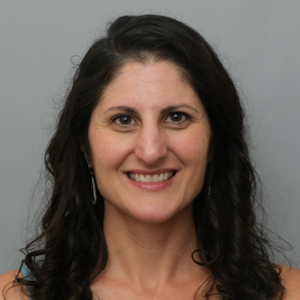
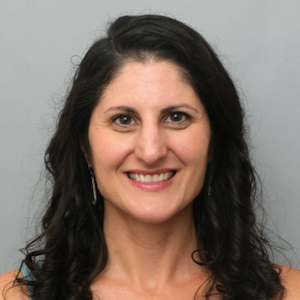
2021 images adjusted

diff --git a/time/index.html b/time/index.html
@@ -171,11 +171,11 @@
         </tr>
         <tr>
           <th scope="row"><p>2021</p></th>
-          <td><img class="img-fluid" src="images/21d.jpg"></td>
-          <td><img class="img-fluid" src="images/21m.jpg"></td>
-          <td><img class="img-fluid" src="images/21j.jpg"></td>
-          <td><img class="img-fluid" src="images/21a.jpg"></td>
-          <td><img class="img-fluid" src="images/21g.jpg"></td>
+          <td><img class="img-fluid" src="images/21d.jpeg"></td>
+          <td><img class="img-fluid" src="images/21m.jpeg"></td>
+          <td><img class="img-fluid" src="images/21j.jpeg"></td>
+          <td><img class="img-fluid" src="images/21a.jpeg"></td>
+          <td><img class="img-fluid" src="images/21g.jpeg"></td>
         </tr>
       </tbody>
     </table>
